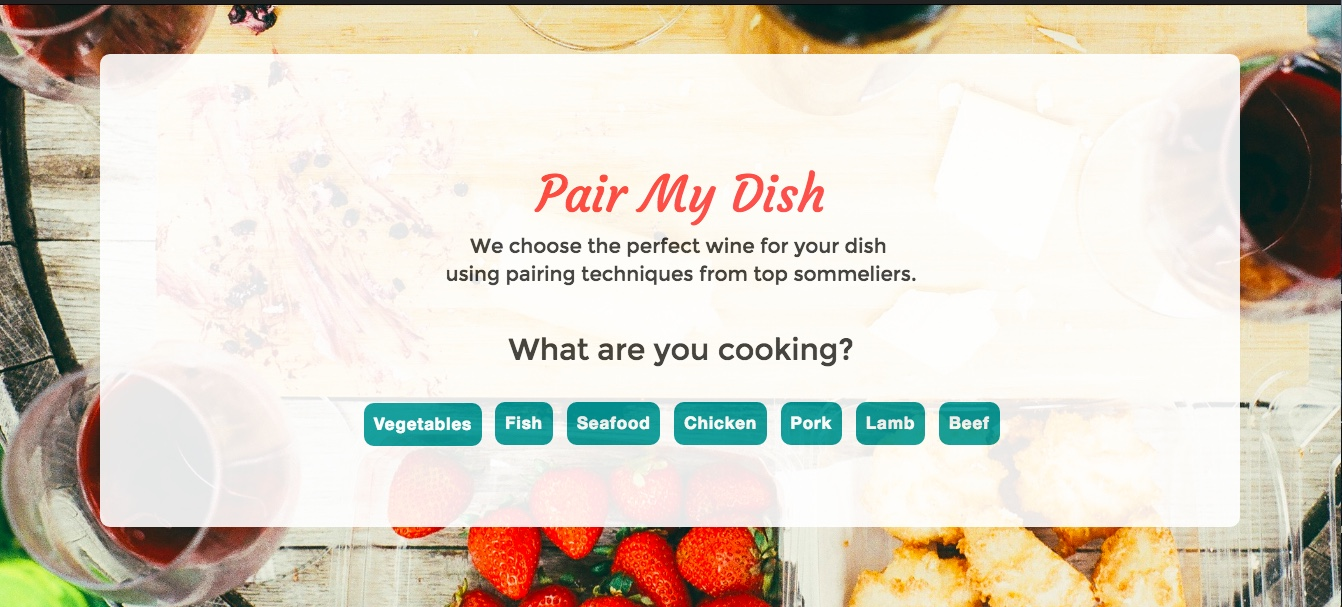
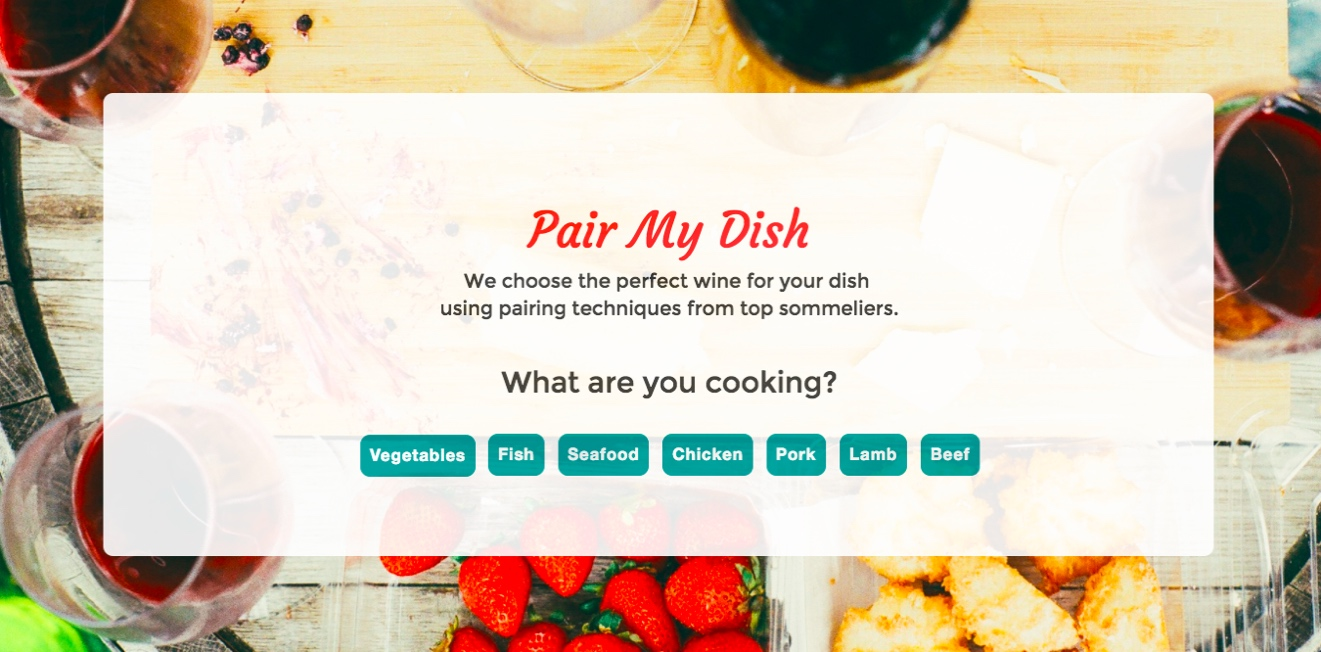
updated portfolio section to show overlay when clicked on touch device

diff --git a/index.html b/index.html
@@ -43,6 +43,9 @@ permalink: /
             <div class="col-lg-12 col-sm-12 portfolio-row">
                 <div class="portfolio-box">
                     <img src="images/pair_my_dish_no_nav_bar.jpg" class="img-responsive" alt="">
+                    <div class="portfolio-box-question">
+                        <span class="glyphicon glyphicon-question-sign"></span>
+                    </div>
                     <div class="portfolio-box-caption">
                         <div class="portfolio-box-caption-content">
                             <div class="project-category text-faded">
@@ -63,6 +66,9 @@ permalink: /
             <div class="col-lg-12 col-sm-12 portfolio-row">
                 <div class="portfolio-box">
                     <img src="images/book_searcher.jpg" class="img-responsive" alt="">
+                    <div class="portfolio-box-question">
+                        <span class="glyphicon glyphicon-question-sign"></span>
+                    </div>
                     <div class="portfolio-box-caption">
                         <div class="portfolio-box-caption-content">
                             <div class="project-category text-faded">

diff --git a/_sass/creative.scss b/_sass/creative.scss
@@ -281,6 +281,21 @@ header .header-content .header-content-inner p {
     -webkit-transition: all .35s;
     -moz-transition: all .35s;
     transition: all .35s;
+    z-index: 2;
+}
+
+.portfolio-box-question {
+    display: block;
+    position: absolute;
+    bottom: 0;
+    width: 100%;
+    height: 100%;
+    color: #f05f40;
+    z-index: 1;
+    font-size: 5em;
+    display: flex;
+    justify-content: center;
+    align-items: center;
 }
 
 .portfolio-box .portfolio-box-caption .portfolio-box-caption-content {

diff --git a/js/creative.js b/js/creative.js
@@ -45,4 +45,8 @@
     // Initialize WOW.js Scrolling Animations
     new WOW().init();
 
+    $(".portfolio-box-question").on('click touchstart', function() {
+        $(".portfolio-box-caption").css("opacity", "1");
+    });
+
 })(jQuery); // End of use strict

diff --git a/_sass/style.scss b/_sass/style.scss
@@ -23,7 +23,7 @@
 
 .portfolio-box img {
     -webkit-filter: grayscale(100%); /* Safari 6.0 - 9.0 */
-    filter: grayscale(100%);
+    filter: grayscale(100%) blur(1px);
 }
 
 // description on blog
